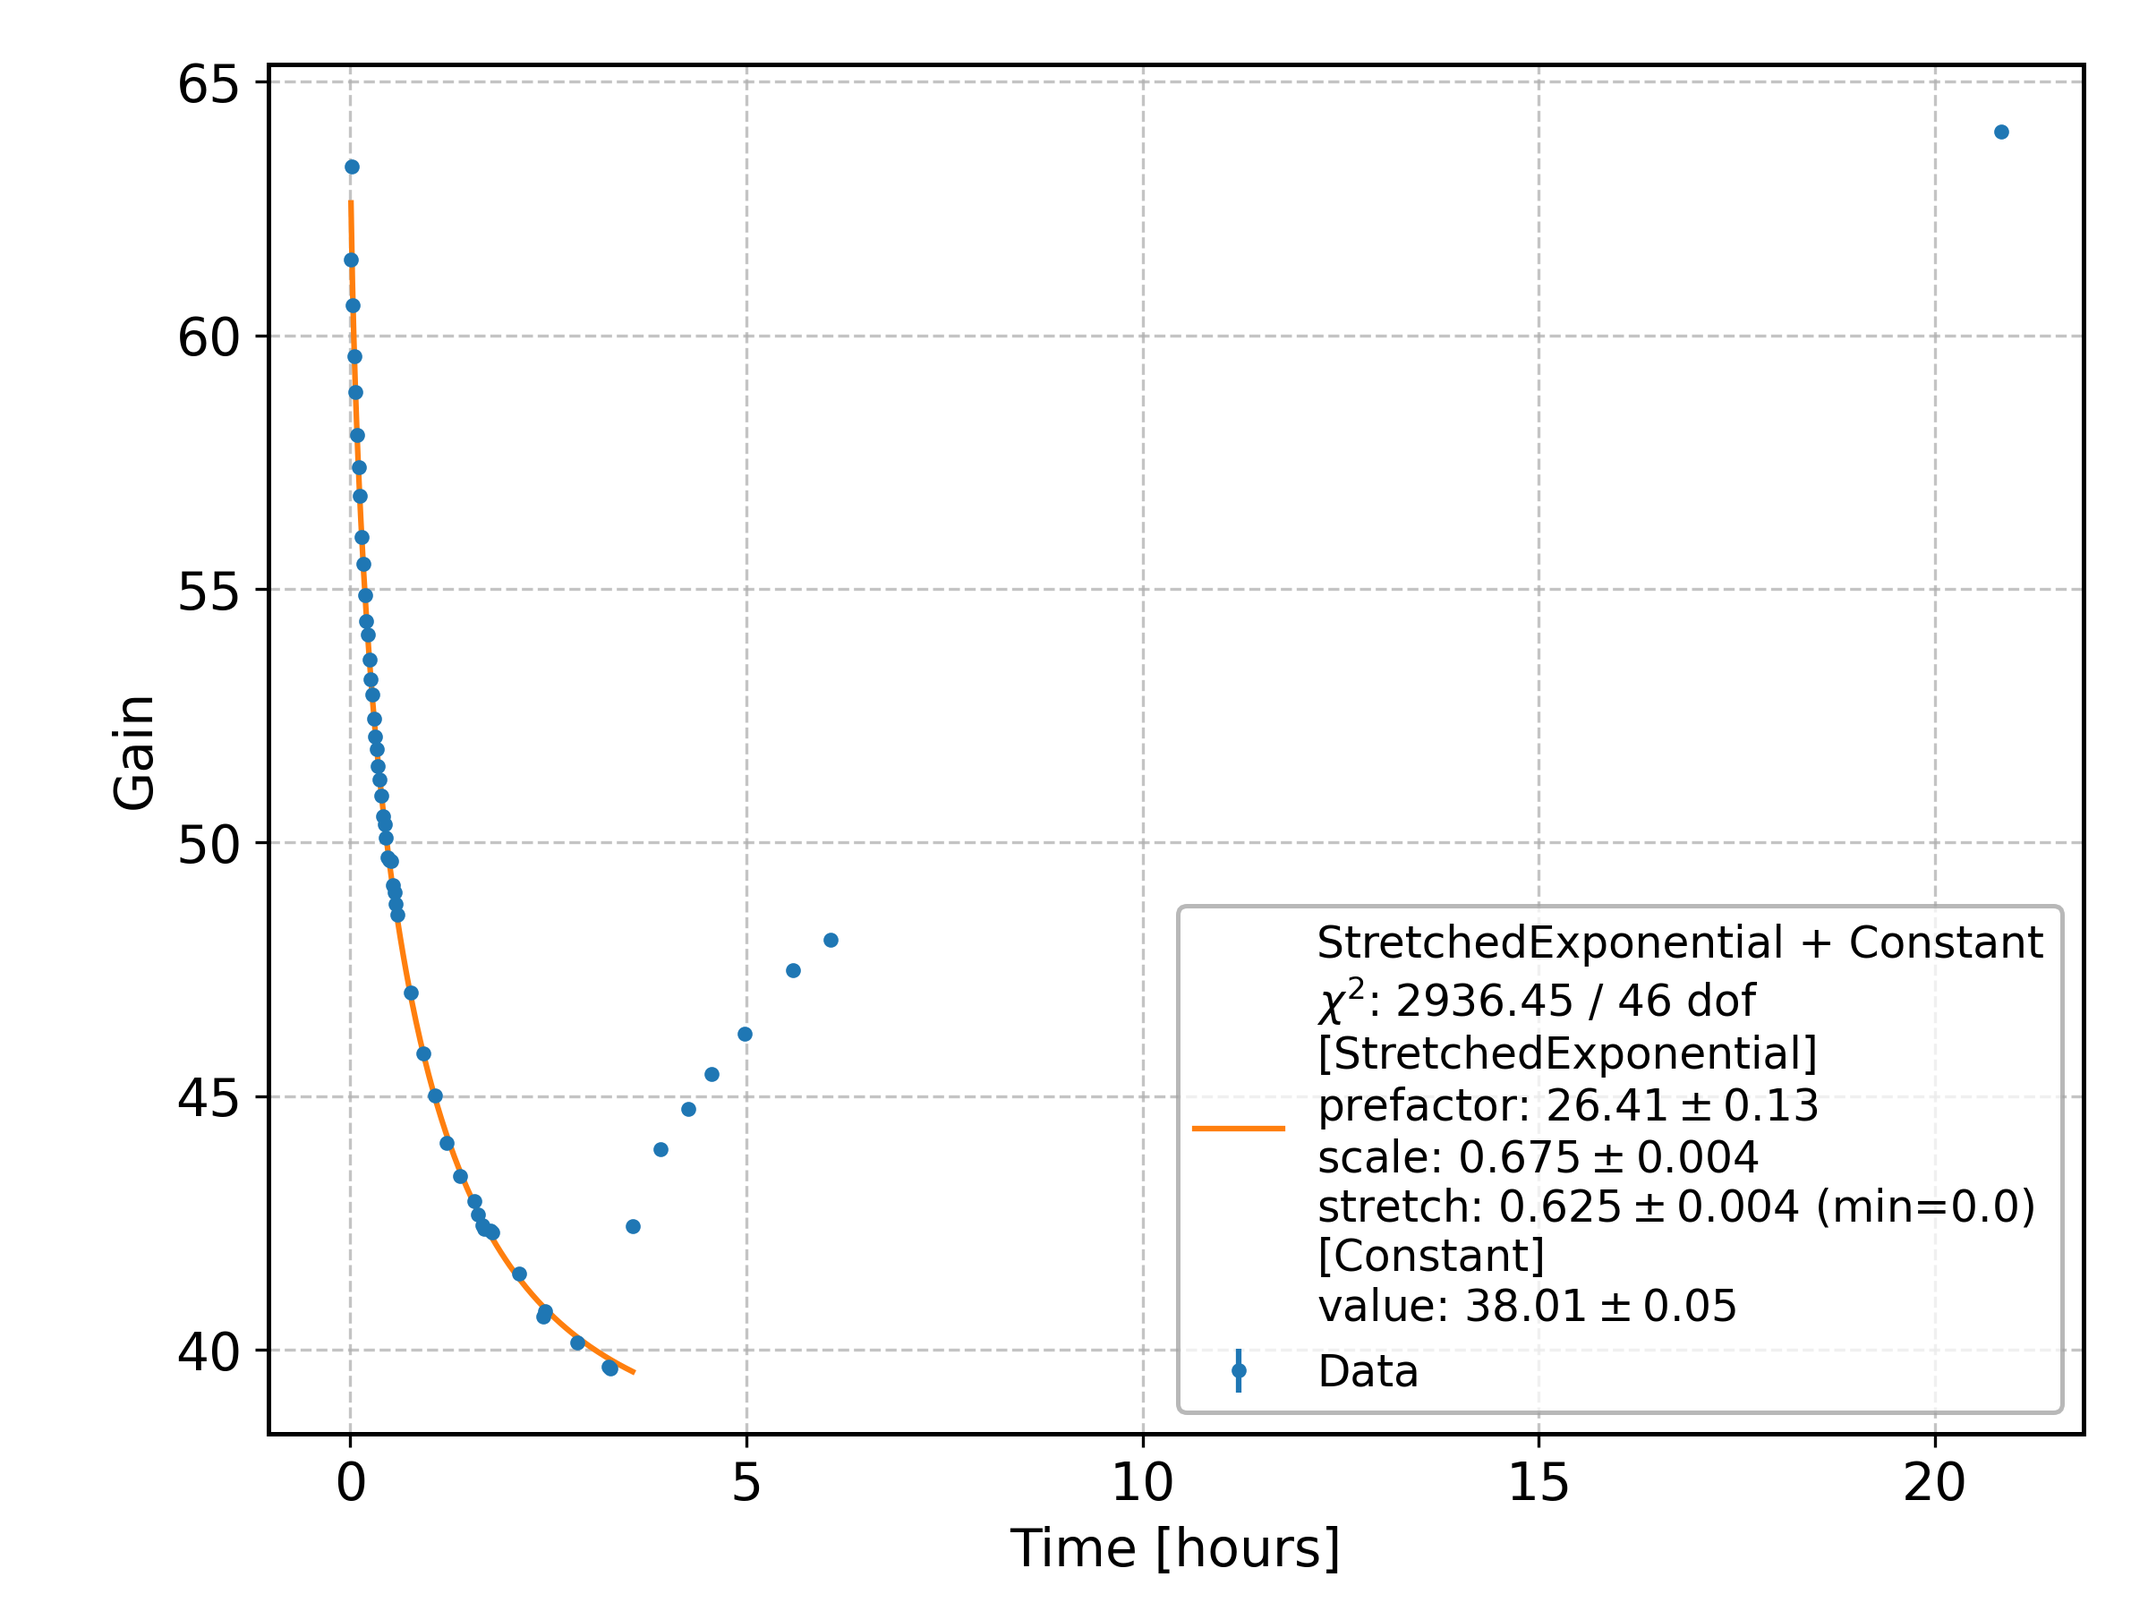
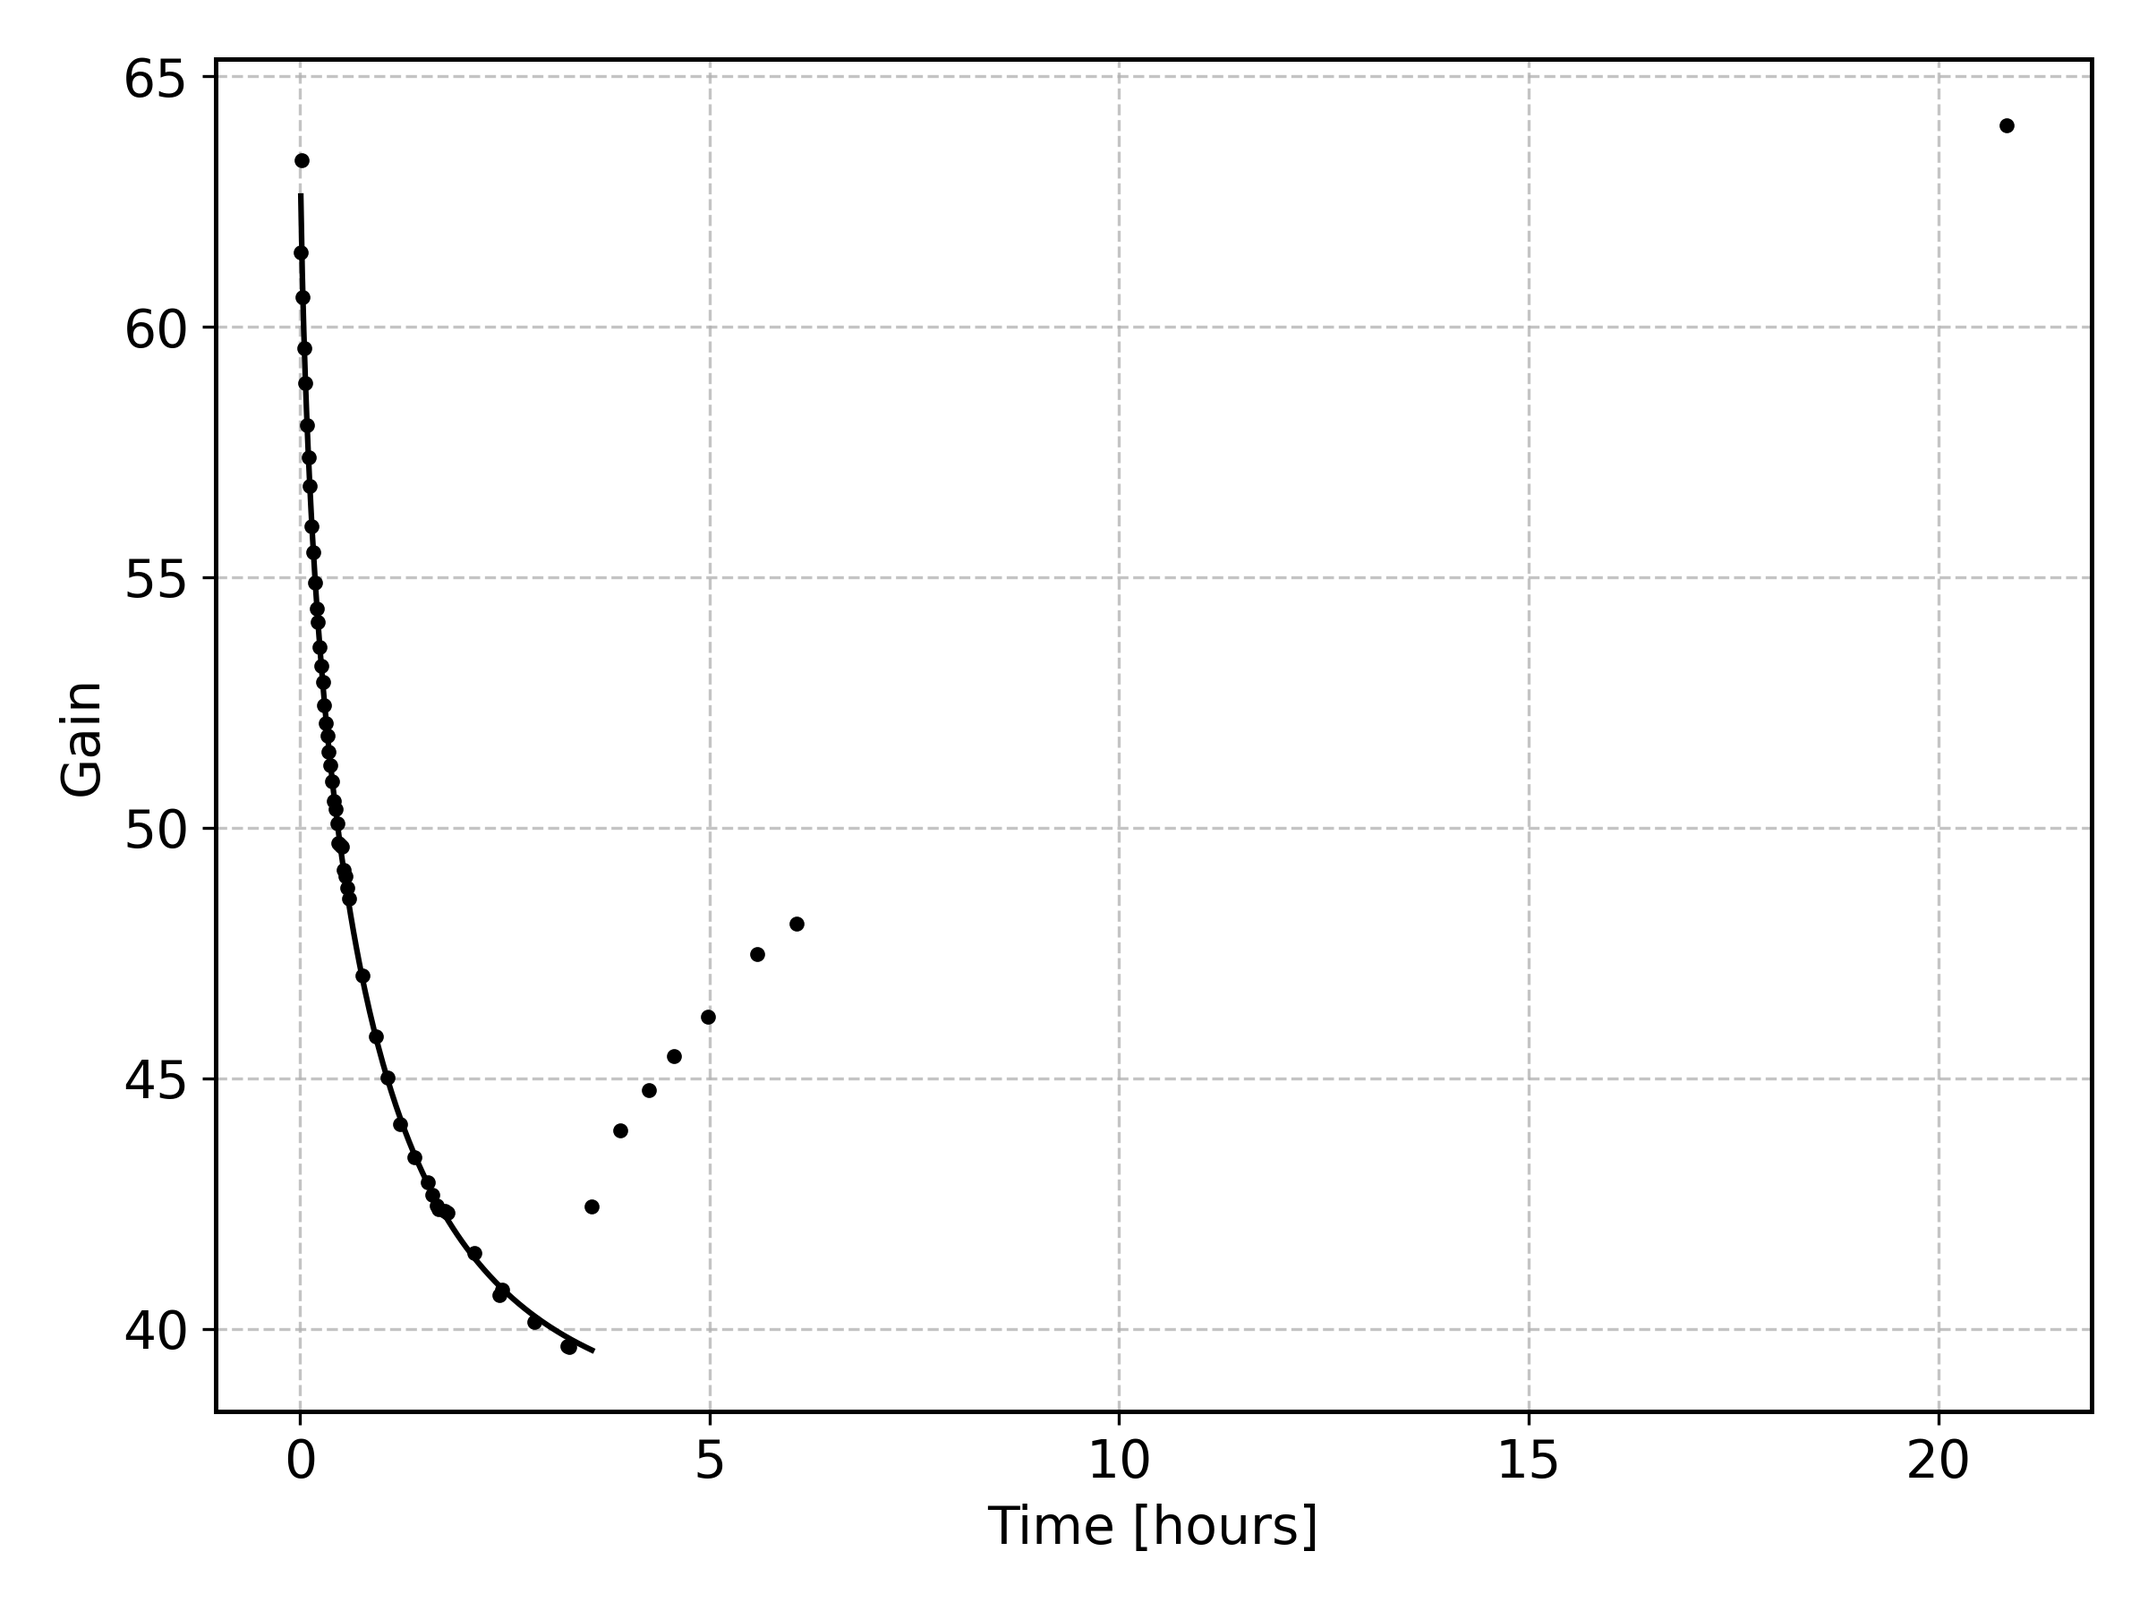
Added title option.

diff --git a/src/analysis/tasks.py b/src/analysis/tasks.py
@@ -19,7 +19,7 @@ from .config import (
     ResolutionDefaults,
 )
 from .context import Context, FoldersContext, TargetContext
-from .plotting import get_label, get_xrange, write_legend
+from .plotting import get_label, get_xrange, write_legend, plot_task
 from .utils import (
     SIGMA_TO_FWHM,
     amptek_accumulate_time,
@@ -182,6 +182,7 @@ def gain_task(
         energy: float = GainDefaults.energy,
         fit: bool = GainDefaults.fit,
         show: bool = PlotDefaults.show,
+        title: str | None = GainDefaults.title,
         label: str | None = GainDefaults.label,
         yscale: str = GainDefaults.yscale
         ) -> Context:
@@ -202,6 +203,8 @@ def gain_task(
         Whether to fit the gain trend with an exponential model. Default is True.
     show : bool, optional
         Whether to show the plots of the gain trend. Default is True.
+    title : str, optional
+        The title for the gain trend plot. Default is None.
     label : str, optional
         The label for the gain trend plot. Default is None.
     yscale : str, optional
@@ -231,25 +234,22 @@ def gain_task(
     # If only a single file is analyzed, return the context without plotting or fitting
     if len(file_names) == 1:
         return context
-    y = unumpy.nominal_values(gain_vals)
-    yerr = unumpy.std_devs(gain_vals)
-    # Create the figure for the gain trend
-    fig = plt.figure("gain_vs_voltage")
-    plt.errorbar(voltages, y, yerr=yerr, fmt=".", label="Data")
-    plt.xlabel("Voltage [V]")
-    plt.ylabel("Gain")
-    plt.yscale(yscale)
-    # If fit is requested, fit the gain trend with an exponential model
     if fit:
         model = aptapy.models.Exponential()
-        model.fit(voltages, y, sigma=yerr, absolute_sigma=True)
-        model.plot(label=f"Scale: {-model.scale.ufloat()} V", color=last_line_color())
-        # Add the fit model to the context
+        model.fit(voltages, unumpy.nominal_values(gain_vals),
+                  sigma=unumpy.std_devs(gain_vals), absolute_sigma=True)
         context.add_task_fit_model(task, target, model)
-    # Write the legend and show or close the plot
-    write_legend(label)
-    if not show:
-        plt.close(fig)
+    # Define the plot keyword arguments for style and labels
+    plot_kwargs = dict(
+        xlabel="Voltage [V]",
+        ylabel="Gain",
+        title=title,
+        label=label,
+        yscale=yscale,
+        show=show
+    )
+    # Create the figure for the gain trend
+    fig = plot_task(voltages, gain_vals, model, **plot_kwargs)
     # Add the figure to the context
     context.add_figure(task, fig)
     return context
@@ -308,14 +308,17 @@ def gain_trend(
     times = amptek_accumulate_time(start_times, real_times) / 3600
     # Save the results in the context
     context.add_task_results(task, target, dict(times=times, gain_vals=gain_vals))
-    y = unumpy.nominal_values(gain_vals)
-    yerr = unumpy.std_devs(gain_vals)
-    # Create the figure for the gain trend
-    fig = plt.figure("gain_vs_time")
-    plt.errorbar(times, y, yerr=yerr, fmt=".", label="Data")
-    plt.xlabel("Time [hours]")
-    plt.ylabel("Gain")
+    # Define the plot keyword arguments for style and labels
+    plot_kwargs = dict(
+        xlabel="Time [hours]",
+        ylabel="Gain",
+        title=None,
+        label=label,
+        yscale="linear",
+        show=True
+    )
     # If fitting subtasks are provided, fit the gain trend with the specified models
+    models = []
     if subtasks:
         for subtask in subtasks:
             # Think how to refactor this part
@@ -330,12 +333,15 @@ def gain_trend(
                 absolute_sigma=fit_pars["absolute_sigma"],
                 p0=fit_pars["p0"]
             )
-            model.fit(times, y, sigma=yerr, **kwargs)
-            model.plot(fit_output=True, plot_components=False)
+            model.fit(times, unumpy.nominal_values(gain_vals),
+                      sigma=unumpy.std_devs(gain_vals),
+                      **kwargs)
+            # model.plot(fit_output=True, plot_components=False)
+            models.append(model)
             # Update the context with the fit results
             context.add_subtask_fit_model(task, target, subtask["target"], model)
             # context["results"][task][target][name] = dict(model=model)
-    write_legend(label)
+    fig = plot_task(times, gain_vals, *models, **plot_kwargs)
     context.add_figure(task, fig)
     return context
 
@@ -422,6 +428,7 @@ def resolution_task(
         context: Context,
         target: str,
         show: bool = ResolutionDefaults.show,
+        title: str | None = ResolutionDefaults.title,
         label: str | None = ResolutionDefaults.label
         ) -> Context:
     """Calculate the energy resolution of the detector using the fit results obtained from the
@@ -437,6 +444,8 @@ def resolution_task(
         is performed. Default is None.
     show : bool, optional
         Whether to show the plots of the resolution trend. Default is True.
+    title : str, optional
+        The title for the resolution trend plot. Default is None.
     label : str, optional
         The label for the resolution trend plot. Default is None.
     
@@ -465,21 +474,18 @@ def resolution_task(
     # If only a single file is analyzed, return the context without plotting
     if len(file_names) == 1:
         return context
-    y = unumpy.nominal_values(res_vals)
-    yerr = unumpy.std_devs(res_vals)
-    min_idx = np.argmin(y)
+    # Define the plot keyword arguments for style and labels
+    plot_kwargs = dict(
+        xlabel="Voltage [V]",
+        ylabel=r"$\Delta$E/E % FWHM",
+        title=title,
+        label=label,
+        yscale="linear",
+        annotate_min=True,
+        show=show,
+    )
     # Create the figure for the resolution trend
-    fig = plt.figure("Resolution vs Voltage")
-    plt.errorbar(voltages, y, yerr=yerr, fmt=".", label="Data")
-    # Write the minimum resolution value on the plot
-    plt.annotate(f"{y[min_idx]:.2f}", xy=(voltages[min_idx], y[min_idx]), xytext=(0, 30),
-                 textcoords="offset points", ha="center", va="top", fontsize=12)
-    plt.xlabel("Voltage [V]")
-    plt.ylabel(r"$\Delta$E/E")
-    # Write the legend and show or close the plot
-    write_legend(label)
-    if not show:
-        plt.close(fig)
+    fig = plot_task(voltages, res_vals, **plot_kwargs)
     # Add the figure to the context
     context.add_figure(task, fig)
     return context
@@ -490,6 +496,7 @@ def resolution_escape(
         target_main: str,
         target_escape: str,
         show: bool = ResolutionDefaults.show,
+        title: str | None = ResolutionDefaults.title,
         label: str | None = ResolutionDefaults.label
         ) -> Context:
     """Calculate the energy resolution of the detector using the fit results obtained from the
@@ -506,6 +513,8 @@ def resolution_escape(
     target_escape : str, optional
         The name of the fitting subtask corresponding to the escape peak. If None, no calculation is
         performed. Default is None.
+    title : str, optional
+        The title for the resolution trend plot. Default is None.
     label : str, optional
         The label for the resolution trend plot. Default is None.
     show : bool, optional
@@ -539,22 +548,17 @@ def resolution_escape(
     # If only a single file is analyzed, return the context without plotting
     if len(file_names) == 1:
         return context
-    y = unumpy.nominal_values(res_vals)
-    yerr = unumpy.std_devs(res_vals)
-    min_idx = np.argmin(y)
     # Create the figure for the resolution trend
-    fig = plt.figure("Resolution vs Voltage")
-    plt.errorbar(voltages, y, yerr=yerr, fmt=".k", label=label)
-    # Write the minimum resolution value on the plot
-    plt.annotate(f"{y[min_idx]:.2f}", xy=(voltages[min_idx], y[min_idx]), xytext=(0, 30),
-                 textcoords="offset points", ha="center", va="top", fontsize=12)
-    plt.xlabel("Voltage [V]")
-    plt.ylabel(r"$\Delta$E/E")
-    # Write the legend and show or close the plot
-    write_legend(label)
-    if not show:
-        plt.close(fig)
-    # Add the figure to the context
+    plot_kwargs = dict(
+        xlabel="Voltage [V]",
+        ylabel=r"$\Delta$E/E % FWHM",
+        title=title,
+        label=label,
+        yscale="linear",
+        annotate_min=True,
+        show=show,
+    )
+    fig = plot_task(voltages, res_vals, **plot_kwargs)
     context.add_figure(task, fig)
     return context
 

diff --git a/src/analysis/plotting.py b/src/analysis/plotting.py
@@ -1,8 +1,9 @@
 from typing import Any
 
 import numpy as np
-from aptapy.modeling import AbstractFitModel
-from aptapy.plotting import plt
+from aptapy.modeling import AbstractFitModel, FitModelSum
+from aptapy.plotting import plt, last_line_color
+from uncertainties import unumpy
 
 from .context import TargetContext
 from .fileio import SourceFile
@@ -90,3 +91,74 @@ def get_label(task_labels: list[str] | None, target_ctx: TargetContext) -> str |
     # Remove the trailing newline character
     label = label[:-1]
     return label
+
+
+def plot_task(xdata: np.ndarray, ydata: np.ndarray, *models: AbstractFitModel,
+              **kwargs) -> plt.Figure:
+    """Plot the data and fitted models for a given analysis task.
+
+    Arguments
+    ---------
+    xdata : np.ndarray
+        The x-axis data points.
+    ydata : np.ndarray
+        The y-axis data points, which may include uncertainties.
+    models : AbstractFitModel
+        The fitted models to plot alongside the data.
+    kwargs : dict
+        Additional keyword arguments for customizing the plot, such as labels, titles, and scales.
+    
+    Returns
+    -------
+    fig : plt.Figure
+        The matplotlib figure object containing the plot.
+    """
+    # Extract the nominal values and standard deviations. Note that even if ydata is not a unumpy
+    # array with nominal values and std devs, these functions will still work correctly, and the
+    # output of std devs is an array full of zeros.
+    ydata_vals = unumpy.nominal_values(ydata)
+    ydata_errs = unumpy.std_devs(ydata)
+    # Create the figure object
+    fig = plt.figure(kwargs.get("fig_name", None))
+    # Plot the data
+    plt.errorbar(
+        xdata,
+        ydata_vals,
+        yerr=ydata_errs,
+        fmt=".",
+        label=kwargs.get("data_label", "Data"),
+        color=kwargs.get("color", "black"),
+    )
+    # Plot all models
+    for i, model in enumerate(models):
+        model_label = kwargs.get(f"model{i}_label", None)
+        fit_output = kwargs.get(f"fit_output", False)
+        if isinstance(model, FitModelSum):
+            plot_components = False
+            model.plot(fit_output=fit_output, label=model_label, color=last_line_color(), plot_components=plot_components)
+        else:
+            model.plot(fit_output=fit_output, label=model_label, color=last_line_color())
+    # Annotate the minimum y value if requested
+    if kwargs.get("annotate_min", False):
+        min_idx = np.argmin(ydata_vals)
+        plt.annotate(f"{ydata_vals[min_idx]:.2f}",
+                    xy=(xdata[min_idx], 
+                    ydata_vals[min_idx]),
+                    xytext=(0, 30),
+                    textcoords="offset points",
+                    ha="center", va="top",
+                    fontsize=12)
+    # Set the labels and scales
+    plt.xlabel(kwargs.get("xlabel", "X axis"))
+    plt.ylabel(kwargs.get("ylabel", "Y axis"))
+    plt.yscale(kwargs.get("yscale", "linear"))
+    # Set the title if provided
+    if "title" in kwargs:
+        plt.title(kwargs["title"])
+    # Write the legend with the provided label
+    write_legend(kwargs.get("label", None))
+    plt.tight_layout()
+    # Close the plot if specified
+    if not kwargs.get("show", True):
+        plt.close()
+    return fig

diff --git a/src/analysis/config.py b/src/analysis/config.py
@@ -67,6 +67,7 @@ class GainDefaults:
     energy: float = KALPHA
     fit: bool = True
     show: bool = True
+    title: str | None = None
     label: str | None = None
     yscale: Literal["linear", "log"] = "log"
 
@@ -78,6 +79,7 @@ class GainConfig(BaseModel):
     energy: float = GainDefaults.energy
     fit: bool = GainDefaults.fit
     show: bool = GainDefaults.show
+    title: str | None = GainDefaults.title
     label: str | None = GainDefaults.label
     yscale: Literal["linear", "log"] = GainDefaults.yscale
 
@@ -109,6 +111,7 @@ class GainCompareConfig(BaseModel):
 @dataclass(frozen=True)
 class ResolutionDefaults:
     show: bool = True
+    title: str | None = None
     label: str | None = None
 
 
@@ -116,6 +119,7 @@ class ResolutionConfig(BaseModel):
     task: Literal["resolution"]
     target: str
     show: bool = ResolutionDefaults.show
+    title: str | None = ResolutionDefaults.title
     label: str | None = ResolutionDefaults.label
 
 

diff --git a/src/analysis/fileio.py b/src/analysis/fileio.py
@@ -158,6 +158,17 @@ class Folder:
                                                            _f.name,re.IGNORECASE) is not None][0]
 
 
+class AnalysisResults:
+    def __init__(self, results_path: pathlib.Path) -> None:
+        with open(results_path, encoding="utf-8") as results_file:
+            self.results = yaml.safe_load(results_file)
+    
+        
+
+
+
+
+
 def load_label(key: str) -> str | None:
     """Load a label from the analysis resources labels.yaml file based on the calling function
     name and on the file name.

diff --git a/tests/test_fileio.py b/tests/test_fileio.py
@@ -5,7 +5,7 @@ import datetime
 
 import numpy as np
 
-from analysis.fileio import PulsatorFile, SourceFile
+from analysis.fileio import PulsatorFile, SourceFile, AnalysisResults
 
 
 def test_pulse(datadir):
@@ -27,3 +27,7 @@ def test_source(datadir):
     assert source.voltage == 370.0
     assert np.isclose(real_time, 163.800000)
     assert source.start_time ==  datetime.datetime(2025, 11, 18, 11, 57, 6)
+
+
+def test_analysis_results():
+    pass
